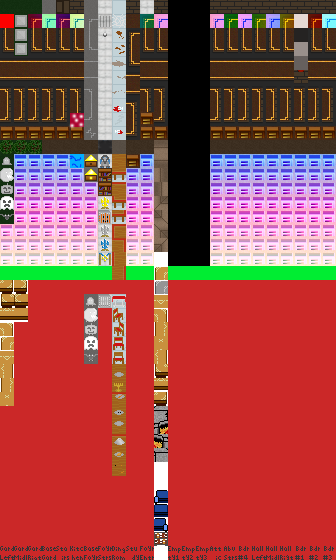
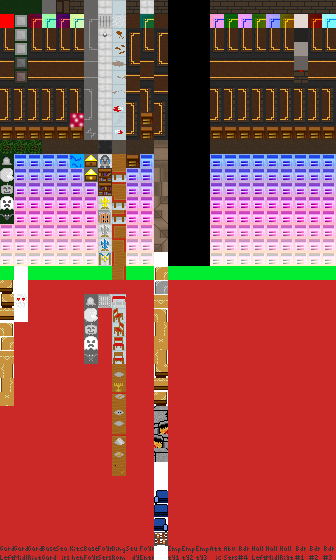
Completed garden puzzle, code cleanup, swapped out some tiles in Den

diff --git a/js/World.js b/js/World.js
@@ -40,7 +40,7 @@ var levelFoyerEntrance =
     [ // Tables, Wall lamps, Rug
  		10, 0, 0, 0, 0, 0, 0, 0, 0, 0, 0, 0, 0, 0, 0, 10,
 		 10, 0, 0, 0, 0, 0, 0, 0, 0, 0, 0, 0, 0, 0, 0, 10,
-		 10, 0, 0, 0, 0, 0, 0, 0, 0, 0, 0, 0, 0, 0, 9, 10,
+		 10, 0, 0, 0, 0, 306, 0, 0, 0, 0, 0, 0, 0, 0, 9, 10,
 		 10, 0, 0, 0, 0, 0, 0, 0, 0, 0, 0, 0, 0, 0, 0, 10,
 		 10, 0, 0, 0, 0, 0, 0, 0, 0, 0, 0, 0, 0, 0, 0, 10,
 		 0, 0, 0, 0, 0, 0, 0, 0, 0, 0, 0, 0, 0, 0, 0, 0,
@@ -51,18 +51,9 @@ var levelFoyerEntrance =
     ];
 
 var levelDen =
-	[ // Fireplace, Armchairs, Rug
-		 16, 11, 11, 11, 11, 11, 11, 11, 11, 11, 11, 11, 11, 11, 11, 17,
-         12, 33, 0, 38, 38, 0, 29, 30, 31, 32, 0, 38, 38, 0, 34, 13,
-		 12, 0, 0, 0, 0, 0, 0, 0, 0, 0, 0, 0, 0, 0, 0, 13,
-		 12, 0, 0, 0, 0, 0, 0, 0, 0, 0, 0, 0, 0, 0, 0, 13,
-		 12, 0, 0, 0, 22, 0, 20, 0, 0, 0, 0, 35, 36, 37, 38, 13,
-		 0, 0, 0, 0, 27, 0, 0, 23, 0, 0, 0, 0, 0, 0, 0, 13,
-		 12, 0, 24, 0, 0, 26, 0, 0, 0, 0, 0, 35, 36, 37, 38, 13,
-		 12, 0, 0, 0, 28, 0, 0, 21, 0, 25, 0, 0, 0, 0, 0, 13,
-		 12, 0, 0, 0, 0, 0, 0, 0, 0, 0, 0, 0, 0, 0, 0, 13,
-		 14, 10, 10, 10, 10, 10, 10, 10, 10, 10, 10, 10, 10, 10, 10, 15,
-	];
+[
+16, 11, 11, 11, 11, 11, 11, 11, 11, 11, 11, 11, 11, 11, 11, 17, 12, 33, 0, 38, 38, 0, 29, 30, 31, 32, 0, 38, 38, 0, 34, 13, 12, 0, 0, 0, 0, 0, 0, 0, 0, 0, 0, 0, 0, 0, 0, 13, 12, 0, 0, 0, 0, 0, 0, 0, 0, 0, 0, 0, 0, 0, 0, 13, 12, 0, 0, 0, 22, 0, 20, 0, 0, 0, 2, 5, 5, 5, 38, 13, 0, 0, 0, 0, 27, 0, 0, 23, 0, 0, 3, 1, 1, 1, 8, 13, 12, 0, 24, 0, 0, 26, 0, 0, 0, 0, 4, 6, 6, 6, 38, 13, 12, 0, 0, 0, 28, 0, 0, 21, 0, 25, 0, 0, 0, 0, 0, 13, 12, 0, 0, 0, 0, 0, 0, 0, 0, 0, 0, 0, 0, 0, 0, 13, 14, 10, 10, 10, 10, 10, 10, 10, 10, 10, 10, 10, 10, 10, 10, 15
+];
 
 var levelFoyerStairs = 
 [
@@ -104,28 +95,13 @@ var levelKitchen =
 
 var levelGardenLeft =
 [
-10, 10, 10, 10, 10, 10, 10, 10, 10, 10, 10, 10, 10, 10, 10, 10, 10, 0, 10, 405, 10, 402, 10, 400, 10, 403, 10, 401, 10, 0, 0, 10, 10, 0, 10, 10, 10, 10, 10, 10, 10, 10, 10, 10, 10, 0, 0, 10, 10, 0, 0, 0, 0, 0, 0, 0, 0, 0, 0, 0, 0, 0, 0, 10, 10, 0, 0, 0, 0, 0, 0, 0, 0, 0, 0, 0, 0, 0, 0, 10, 10, 0, 0, 0, 0, 0, 0, 0, 0, 0, 0, 0, 0, 0, 0, 0, 10, 0, 0, 0, 0, 0, 0, 0, 0, 0, 0, 0, 0, 0, 0, 10, 10, 0, 0, 0, 0, 0, 0, 0, 0, 0, 0, 0, 0, 0, 0, 10, 10, 0, 0, 0, 0, 0, 0, 0, 0, 0, 0, 0, 0, 0, 0, 10, 10, 10, 10, 10, 10, 10, 10, 200, 10, 10, 10, 10, 10, 10, 10, 10
+10, 10, 10, 10, 10, 10, 10, 10, 10, 10, 10, 10, 10, 10, 10, 10, 10, 0, 10, 405, 10, 402, 10, 400, 10, 403, 10, 401, 10, 0, 0, 10, 10, 0, 10, 10, 10, 10, 10, 10, 10, 10, 10, 10, 10, 0, 0, 10, 10, 0, 0, 0, 0, 0, 0, 0, 0, 0, 0, 0, 0, 0, 0, 10, 10, 0, 0, 0, 0, 0, 0, 0, 0, 0, 0, 0, 0, 0, 0, 10, 10, 0, 0, 0, 0, 0, 0, 0, 0, 0, 0, 0, 0, 0, 0, 0, 10, 0, 0, 0, 0, 0, 0, 0, 0, 0, 0, 0, 0, 0, 0, 10, 10, 0, 0, 0, 0, 0, 0, 0, 0, 0, 0, 0, 0, 0, 0, 10, 10, 0, 0, 0, 0, 0, 0, 0, 0, 0, 0, 0, 0, 0, 0, 10, 10, 10, 10, 10, 10, 10, 10, 206, 10, 10, 10, 10, 10, 10, 10, 10
 ];
 
 var levelGardenMiddle =
 [
-10, 10, 10, 10, 10, 10, 10, 10, 10, 10, 10, 10, 10, 10, 10, 10, 10, 0, 0, 0, 0, 0, 0, 0, 0, 0, 10, 0, 10, 1, 0, 0, 10, 0, 10, 10, 10, 10, 10, 0, 10, 0, 10, 0, 10, 10, 10, 10, 10, 0, 0, 0, 0, 0, 0, 0, 10, 0, 0, 0, 0, 23, 0, 0, 10, 10, 10, 10, 10, 10, 10, 0, 10, 0, 10, 10, 10, 10, 10, 10, 0, 0, 0, 0, 0, 0, 0, 0, 10, 0, 10, 10, 0, 0, 0, 0, 10, 10, 10, 0, 10, 10, 10, 0, 0, 0, 2, 10, 0, 10, 10, 10, 10, 10, 10, 0, 10, 3, 10, 10, 10, 10, 0, 10, 0, 10, 10, 10, 10, 0, 0, 0, 10, 0, 0, 0, 0, 0, 0, 10, 0, 0, 0, 0, 10, 10, 10, 10, 10, 10, 10, 10, 10, 10, 10, 10, 10, 10, 10, 10
+10, 10, 10, 10, 10, 10, 10, 10, 10, 10, 10, 10, 10, 10, 10, 10, 10, 0, 0, 0, 0, 0, 0, 0, 0, 0, 10, 1, 10, 2, 10, 0, 10, 0, 10, 10, 10, 10, 10, 0, 10, 0, 10, 0, 10, 10, 10, 10, 10, 5, 0, 0, 0, 0, 0, 0, 10, 0, 0, 0, 0, 21, 0, 0, 10, 10, 10, 10, 10, 10, 10, 0, 10, 0, 10, 10, 10, 10, 10, 10, 0, 0, 0, 0, 0, 0, 0, 0, 10, 0, 10, 10, 0, 0, 0, 0, 10, 10, 10, 0, 10, 10, 10, 0, 0, 5, 0, 10, 0, 10, 10, 10, 10, 10, 10, 0, 10, 3, 10, 10, 10, 10, 0, 10, 0, 10, 10, 10, 10, 0, 0, 0, 10, 0, 0, 0, 0, 0, 0, 10, 0, 0, 0, 0, 10, 10, 10, 10, 10, 10, 10, 10, 10, 10, 10, 10, 10, 10, 10, 10
 ];
-
-
-//var levelGardenRight =
-//	[ // Plants
-//		 10, 10, 10, 10, 10, 10, 10, 10, 10, 10, 10, 10, 10, 10, 10, 10,
-//		 0, 0, 0, 0, 0, 0, 0, 0, 0, 0, 0, 0, 0, 0, 0, 10,
-//		 0, 0, 0, 0, 0, 0, 0, 0, 0, 0, 0, 0, 0, 0, 0, 10,
-//		 0, 0, 0, 0, 0, 0, 0, 0, 0, 0, 0, 0, 0, 0, 0, 10,
-//		 0, 0, 0, 0, 0, 0, 0, 0, 0, 0, 0, 0, 0, 0, 0, 10,
-//		 0, 0, 0, 0, 0, 0, 0, 0, 0, 0, 0, 0, 0, 0, 0, 10,
-//		 0, 0, 0, 0, 0, 0, 0, 0, 0, 0, 0, 0, 0, 0, 0, 10,
-//		 0, 0, 0, 0, 0, 0, 0, 0, 0, 0, 0, 0, 0, 0, 0, 10,
-//		 0, 0, 0, 0, 0, 0, 0, 0, 0, 0, 0, 0, 0, 0, 0, 10,
-//		 10, 10, 10, 10, 10, 10, 10, 0, 10, 10, 10, 10, 10, 10, 10, 10,
-//	];
 
 var levelGardenRight =
 [

diff --git a/js/RoomCheck.js b/js/RoomCheck.js
@@ -70,14 +70,33 @@ function checkGardenMiddle()
 {
     if (roomCoordToIndex() == ROOM_ID_GARDEN_MIDDLE && gardenMiddlePuzzleSolved == false)
     {
-        triggerTile(1, false, changeTile, 42, 10, 0);
-        triggerTile(2, false, changeTile, 119, 10, 0);
-        triggerTile(3, false, changeTile, 56, 10, 0);
-        if (worldGrid[49] == 23)
+        triggerTile(1, 4, spawnTile, 0, 30);
+        triggerTile(2, 4, spawnTile, 0, 26);
+        triggerTile(3, 4, spawnTile, 0, 119);
+        
+        // Check if Roman is standing on pressure plate
+        if (roman.currentIndex == 105 || roman.currentIndex == 49)
+        {
+            postMessage("Roman: I need to place something heavy here, it won't budge!");
+        }
+
+        // Check if skull is on pressure plate
+        if (worldGrid[105] == 21)
+        {
+            spawnTile(0, 56);
+            if (worldGrid[119] == 10)
+            {
+                postMessage("Uh oh, looks like you got ahead of yourself! Guess you'll have to try again.");
+                spawnTile(10, 56);
+            }
+        }
+
+        // Check if skull is on final pressure plate
+        if (worldGrid[49] == 21)
         {
             gardenMiddlePuzzleSolved = true;
-            console.log("skull is in the right place");
-            roomLayout[roomCoordToIndex()][129] = TILE_KEY_GARDEN_BASEMENT;
+            spawnTile(TILE_KEY_GARDEN_BASEMENT, 129);
+            postMessage(dialogueGardenMiddlePuzzleSolved);
         }
     }
 
@@ -101,7 +120,7 @@ function checkDen()
     }
     else if (roomCoordToIndex() == ROOM_ID_DEN && denPuzzleSolved == true && roman.doorKeyRing[KEYDOOR_IDX_GARDEN] == true)
     {
-        worldGrid[91] = TILE_GROUND; // Delete key if roman already has it
+        worldGrid[91] = originalRoomState[91]; // Delete key if roman already has it
     }
 }
 
@@ -124,17 +143,14 @@ function checkFoyerEntrance()
 // Checks if Roman is standing on a specific kind of tile, if so, call a function
 var romanIsOnTriggerTile = false;
 
-function triggerTile(tileType, isPermanent, funcToExecute, funcParam1, funcParam2, funcParam3)
+function triggerTile(tileType, activatedTileType, funcToExecute, funcParam1, funcParam2, funcParam3)
 {
     if (worldGrid[roman.currentIndex] == tileType && romanIsOnTriggerTile == false)
     {
         romanIsOnTriggerTile = true;
         funcToExecute(funcParam1, funcParam2, funcParam3);
-        if (isPermanent == false) // Should the trigger tile disappear?
-        {
-            worldGrid[roman.currentIndex] = TILE_GROUND; // Delete from scene being drawn
-            roomLayout[roomCoordToIndex()][roman.currentIndex] = TILE_GROUND; // Delete from scene in memory
-        }
+        worldGrid[roman.currentIndex] = activatedTileType;
+        roomLayout[roman.currentIndex] = activatedTileType;
     }
     if (worldGrid[roman.currentIndex] != tileType && romanIsOnTriggerTile == true)
     {
@@ -142,23 +158,9 @@ function triggerTile(tileType, isPermanent, funcToExecute, funcParam1, funcParam
     } 
 }
 
-// Toggles tile between two different types
-function changeTile(indexOfChangingTile, changingTileTypeOff, changingTileTypeOn)
-{
-    if (worldGrid[indexOfChangingTile] == changingTileTypeOff)
-    {
-        worldGrid[indexOfChangingTile] = changingTileTypeOn;
-        roomLayout[roomCoordToIndex()][indexOfChangingTile] = changingTileTypeOn;
-    }
-    else
-    {
-        worldGrid[indexOfChangingTile] = changingTileTypeOff;
-        roomLayout[roomCoordToIndex()][indexOfChangingTile] = changingTileTypeOff;
-    }
-}
 
-
-function spawnTile(whichKey, whichTileIndex)
+function spawnTile(whichTile, whichTileIndex)
 {
-    worldGrid[whichTileIndex] = whichKey;
+    worldGrid[whichTileIndex] = whichTile;
+    roomLayout[roomCoordToIndex()][whichTileIndex] = whichTile;
 }

diff --git a/js/Main.js b/js/Main.js
@@ -87,25 +87,36 @@ function loadLevel(whichLevelIdx, preservePlayerStart)
 		enemyList.push(tempEnemy);
 		tempEnemy = new EnemyClass();
 	}
-	if (whichLevelIdx == ROOM_ID_DEN && denPuzzleSolved == false)
+	switch (whichLevelIdx)
 	{
-	    postMessage(dialogueDenPuzzleNotSolved);
+	    case ROOM_ID_DEN:
+	        if (denPuzzleSolved == false)
+	        {
+	            postMessage(dialogueDenPuzzleNotSolved);
+	        }
+	        break;
+	    case ROOM_ID_BEDROOM1:
+	        if (bedroom1PuzzleSolved == false) 
+	        {
+	            postMessage(dialogueBedroom1PuzzleNotSolved);
+	        }
+	        enterBedroom1();
+	        break;
+	    case ROOM_ID_GARDEN_MIDDLE:
+	        if (gardenMiddlePuzzleSolved == false) 
+	        {
+	            postMessage(dialogueGardenMiddlePuzzleNotSolved);
+	        }
+	        break;
+	    default:
+	        break;
+
 	}
-	if (whichLevelIdx == ROOM_ID_BEDROOM1)
-	{
-		if (bedroom1PuzzleSolved == false) {
-			postMessage(dialogueBedroom1PuzzleNotSolved);
-		}
-		enterBedroom1();
-	}
-	else if (isFlashLightNeededButMissing())
+	if (isFlashLightNeededButMissing())
 	{
 	    postMessage("It's too dark...");
 	}
-	else
-	{
-	    clearMessage();
-	}
+	originalRoomState = roomLayout[roomCoordToIndex()];
     //Sounds.enter_room.play();
 }
 

diff --git a/js/Hero.js b/js/Hero.js
@@ -2,6 +2,7 @@ const PLAYER_MOVE_SPEED = 2.0;
 
 var keyStripLimit = 8; // Max number of keys displayed per line in the UI
 var tileUnderPushable = 0;
+var originalRoomState = [];
 
 function heroClass()
 {
@@ -208,9 +209,15 @@ function heroClass()
                     && bumpIntoCol > 0
                     && bumpIntoCol < WORLD_COLS - 1)
 		    {
-		        worldGrid[walkIntoTileIndex] = tileUnderPushable; // Index of tile that's being bumped started
-		        tileUnderPushable = worldGrid[bumpToTileIndex]; // Save the tile type the bumped tile is moving onto
-		        worldGrid[bumpToTileIndex] = tileTypeBeingBumped; // Index where tile is being bumped
+		        if (originalRoomState[walkIntoTileIndex] <= TILE_WALKABLE_LAST) 
+		        {
+		            worldGrid[walkIntoTileIndex] = originalRoomState[walkIntoTileIndex]; // Replace ground with what was originally there
+		        }
+		        else
+		        {
+		            worldGrid[walkIntoTileIndex] = TILE_GROUND; // Replace ground with default ground tile if nothing was there originally
+		        }
+		        worldGrid[bumpToTileIndex] = tileTypeBeingBumped; // Replace the tile with the pushable tile
 		    }
 		}
 

diff --git a/js/Dialogue.js b/js/Dialogue.js
@@ -10,6 +10,9 @@ var dialogueBedroom1PuzzleShowPath = "Oh look! That is a safe path!";
 var dialogueBedroom1PuzzleSteppedOffPath = "Huh!? What happened? I must've walked on the wrong tiles.";
 var dialogueBedroom1PuzzleSolved = "Dialogue bark for bedroom 1 puzzle solved.";
 
+var dialogueGardenMiddlePuzzleNotSolved = "Dialogue bark for Garden Middle puzzle.";
+var dialogueGardenMiddlePuzzleSolved = "Dialogue bark for Garden Middle puzzle solved.";
+
 //var dialogueStudyPuzzleNotSolved = "Sorry, but there are no pictures in these books.";
 //var dialogueStudyPuzzleSolved = "How lucky can you get?";
 
